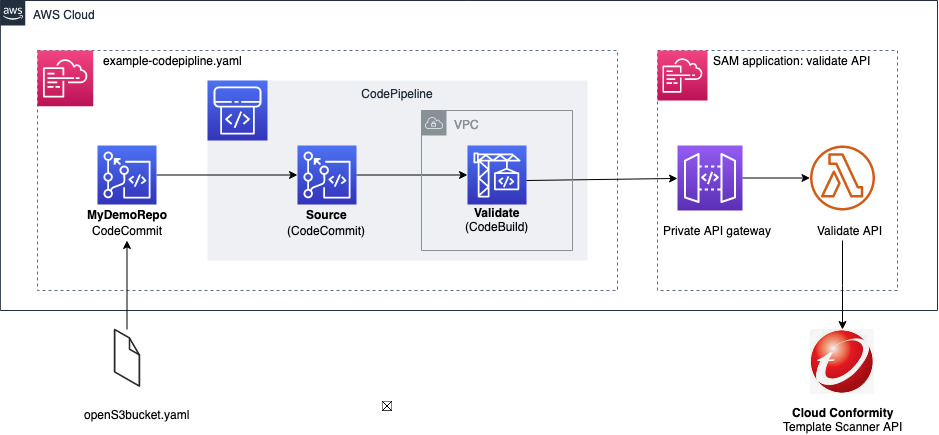
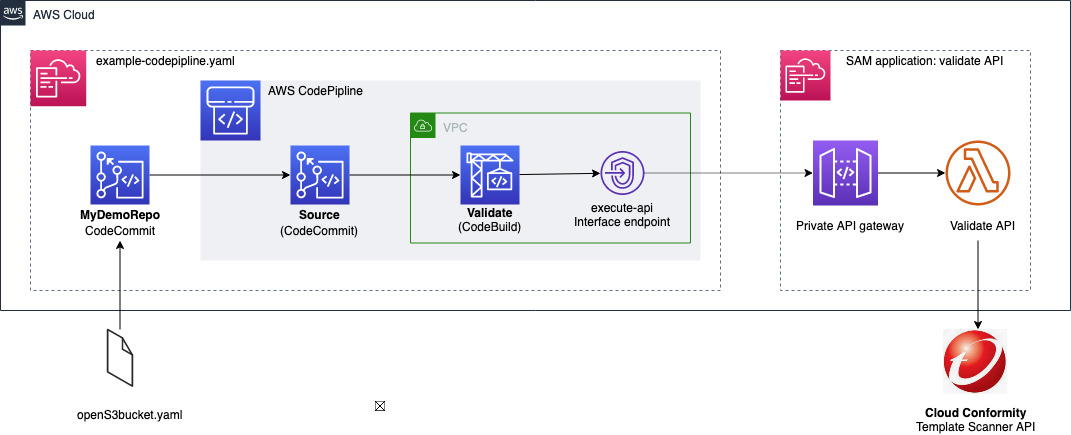
Readme updates

diff --git a/README.md b/README.md
@@ -2,19 +2,31 @@
 
 Integrating AWS CloudFormation template scanning into CI/CD pipelines is a perfect way to always catch security infringements before deployments occur. However, when the scanning tools used are external to the organization, such as [Trend Micro's Cloud One Conformity](https://www.trendmicro.com/en_au/business/products/hybrid-cloud/cloud-one-conformity.html) (formerly Cloud Conformity), implementing and enforcing this in a multi team, multi account environment can present some challenges.
 
-This solution allows for using the [CloudConformity Template Scanner API](https://github.com/cloudconformity/documentation-api/blob/master/TemplateScanner.md) in your AWS CodePipeline. AWS CodeBuild will fail if any submitted templates return failed checks, and results are presented using [CodeBuild reports](https://docs.aws.amazon.com/codebuild/latest/userguide/test-reporting.html) feature 
+This solution allows for using the [Cloud Conformity Template Scanner API](https://github.com/cloudconformity/documentation-api/blob/master/TemplateScanner.md) in your AWS CodePipeline. AWS CodeBuild will fail if any submitted templates return failed checks, and results are presented using [CodeBuild reports](https://docs.aws.amazon.com/codebuild/latest/userguide/test-reporting.html) feature 
 
-![Architecture Diagram](./docs/CodeBuildTestReport.png)
+## Wrapper API features
+
+The wrapper API (henceforce called the Validate API, as it is used in pipelines to validate AWS CloudFormation templates) adds extra functionality when compared to the Cloud Conformity Template Scanner API:
+
+1. Send multiple templates at once, within a single POST
+2. Checks that the AWS account is currently being monitored by Cloud Conformity
+   * If it is not being monitored, a VERY HIGH failing check is added to the test results
+3. Returns the results in Cucumber JSON, a format supported by AWS CodeBuild reports.
+
+
 
 ## Architecture
 
-This codebase will create a private API endpoint which can be used within your CI/CD pipeline CodeBuild job to submit AWS CloudFormation templates to it. The API will then use the Cloud Conformity Template Scanner API to perform vulnerability scans upon the cloudformation. By using the API caller's AWS account number, you can be sure that the checks performed are exactly the same as the Cloud Conformity real time scanning running against the destination account. 
+![Architecture Diagram](./docs/ArchDiag.png)
+
+
+This codebase will create a private API endpoint which can be used within your CI/CD pipeline AWS CodeBuild job to submit AWS CloudFormation templates to it. The API will then use the Cloud Conformity Template Scanner API to perform vulnerability scans upon the cloudformation. By using the API caller's AWS account number, you can be sure that the checks performed are exactly the same as the Cloud Conformity real time scanning running against the destination account. 
 
 Results from the API are returned in Cucumber JSON format, to enable easy viewing as part of CodeBuild test reports. 
 
 A suggested CodeBuild buildspec file is also [included as part of this repository](./validate.buildspec.yml), to enable use within CodePipeline straight away.
 
-![Architecture Diagram](./docs/ArchDiag.png)
+![Architecture Diagram](./docs/CodeBuildTestReport.png)
 
 ### API endpoints provided
 
@@ -93,9 +105,9 @@ More information on Test Reporting inside AWS CodeBuild is available [here](http
 The buildspec file to be used is also contained within this repo:
 - [validate.buildspec.yml](./validate.buildspec.yml)
 
-This CodeBuild can then be used in AWS CodePipeline, as per the Validate stage in diagram below:
+This AWS CodeBuild project can then be used in AWS CodePipeline, as per the Validate stage in diagram below. The call to the Validate API remains internal to the AWS network, utilising the VPC Interface Endpoint for Amazon API Gateway (called `execute-api`) attached to the VPC that the validate project uses.
 
-![CodePipeline example](./docs/CodePipelineExample.jpg)
+![CodePipeline example](./docs/CodePipelineExample.png)
 
 ### Test using example CodePipeline
 
@@ -143,7 +155,7 @@ The full report can be viewed through the Console:
 
 You can now see all the Cloud Conformity errors relating to the template which was committed to the repository. 
 
-![CodeBuildReport](./docs/report.png)
+![CodeBuildReport](./docs/CodeBuildTestReport.png)
 
 In real life, this template can be the output of another *Build* CodeBuild stage, or another location within your repository.
 
